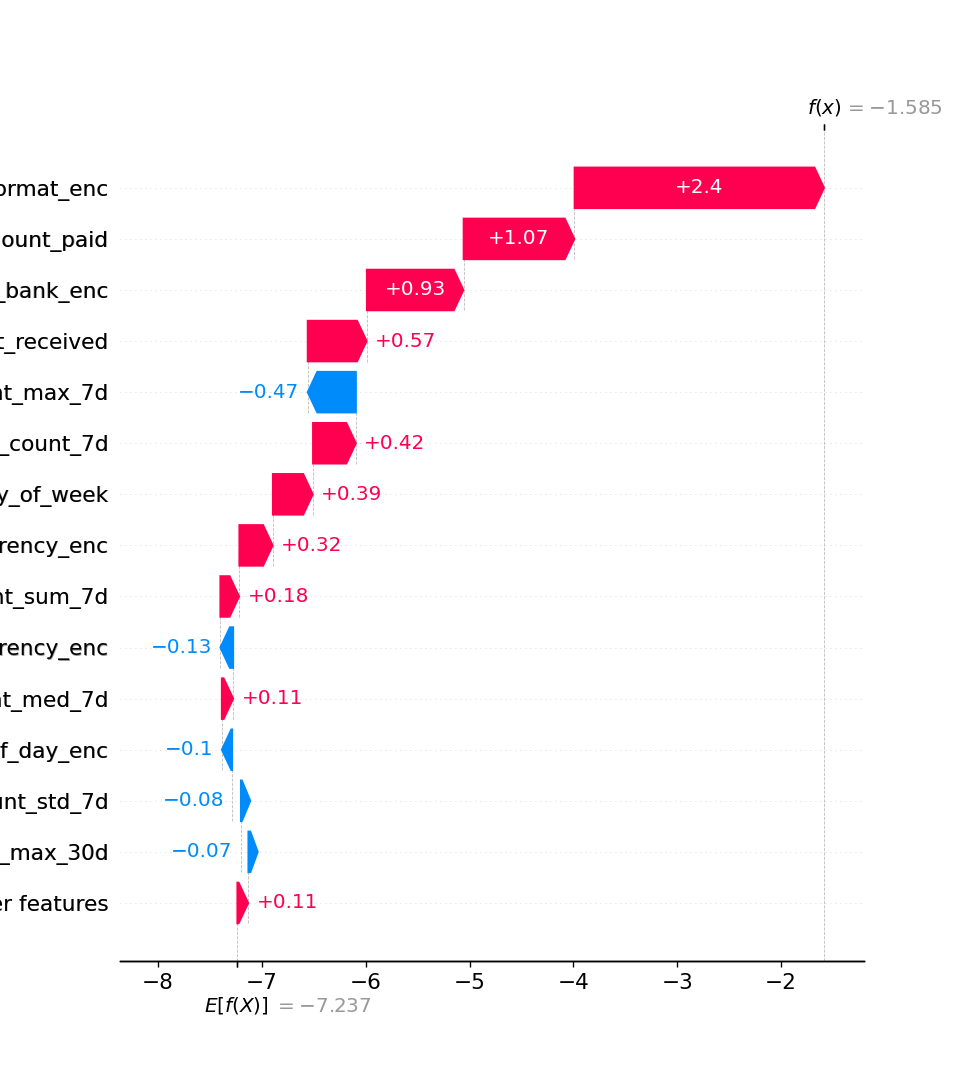
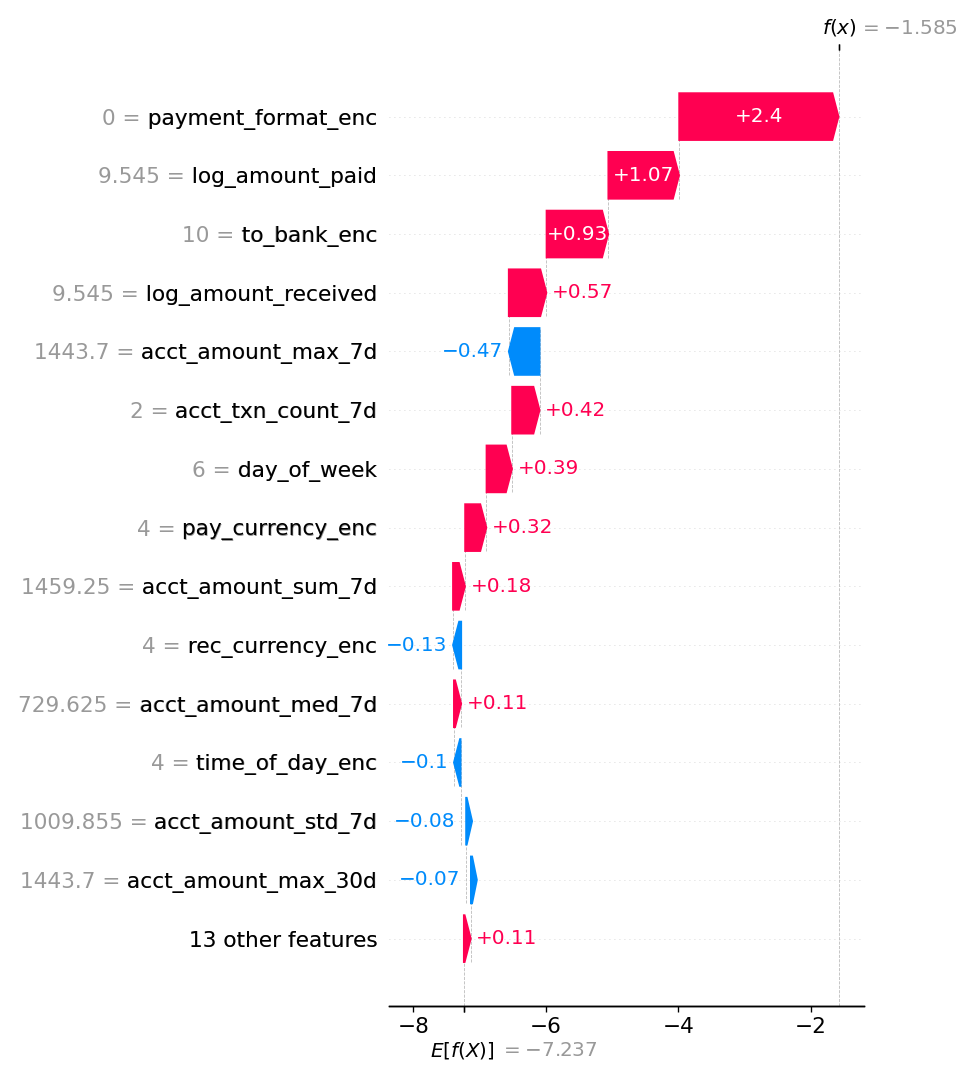
fix: fix waterfall plot clipping

diff --git a/visualization.py b/visualization.py
@@ -375,6 +375,7 @@ def plot_waterfall(
 	print(f'Risk Score: {y_prob[example_pos]:.4f}')
 	print(f'True Label: Laundering')
 
+	plt.figure(figsize=(16, 10))
 	shap.plots.waterfall(
 		shap.Explanation(
 			values=shap_values[example_pos],
@@ -384,6 +385,7 @@ def plot_waterfall(
 		),
 		max_display=max_display, show=False
 	)
+	plt.tight_layout()
 	plt.savefig('outputs/shap_waterfall.png')
 	plt.close()
 
